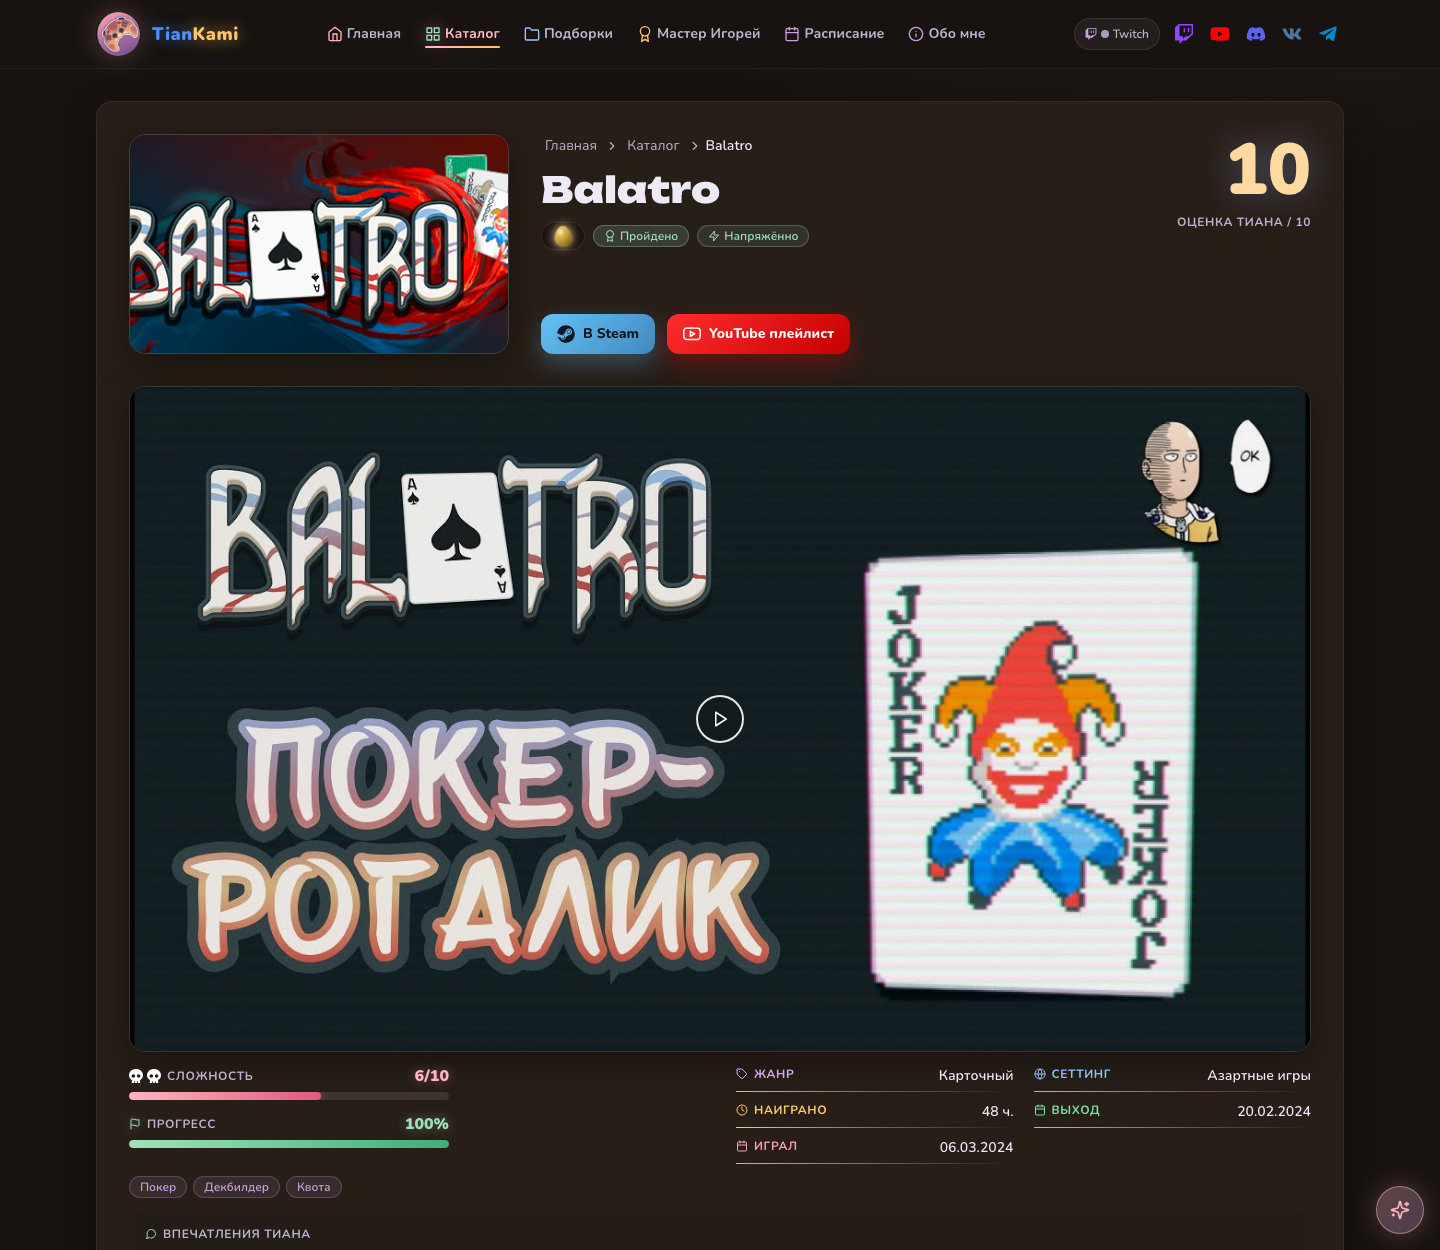
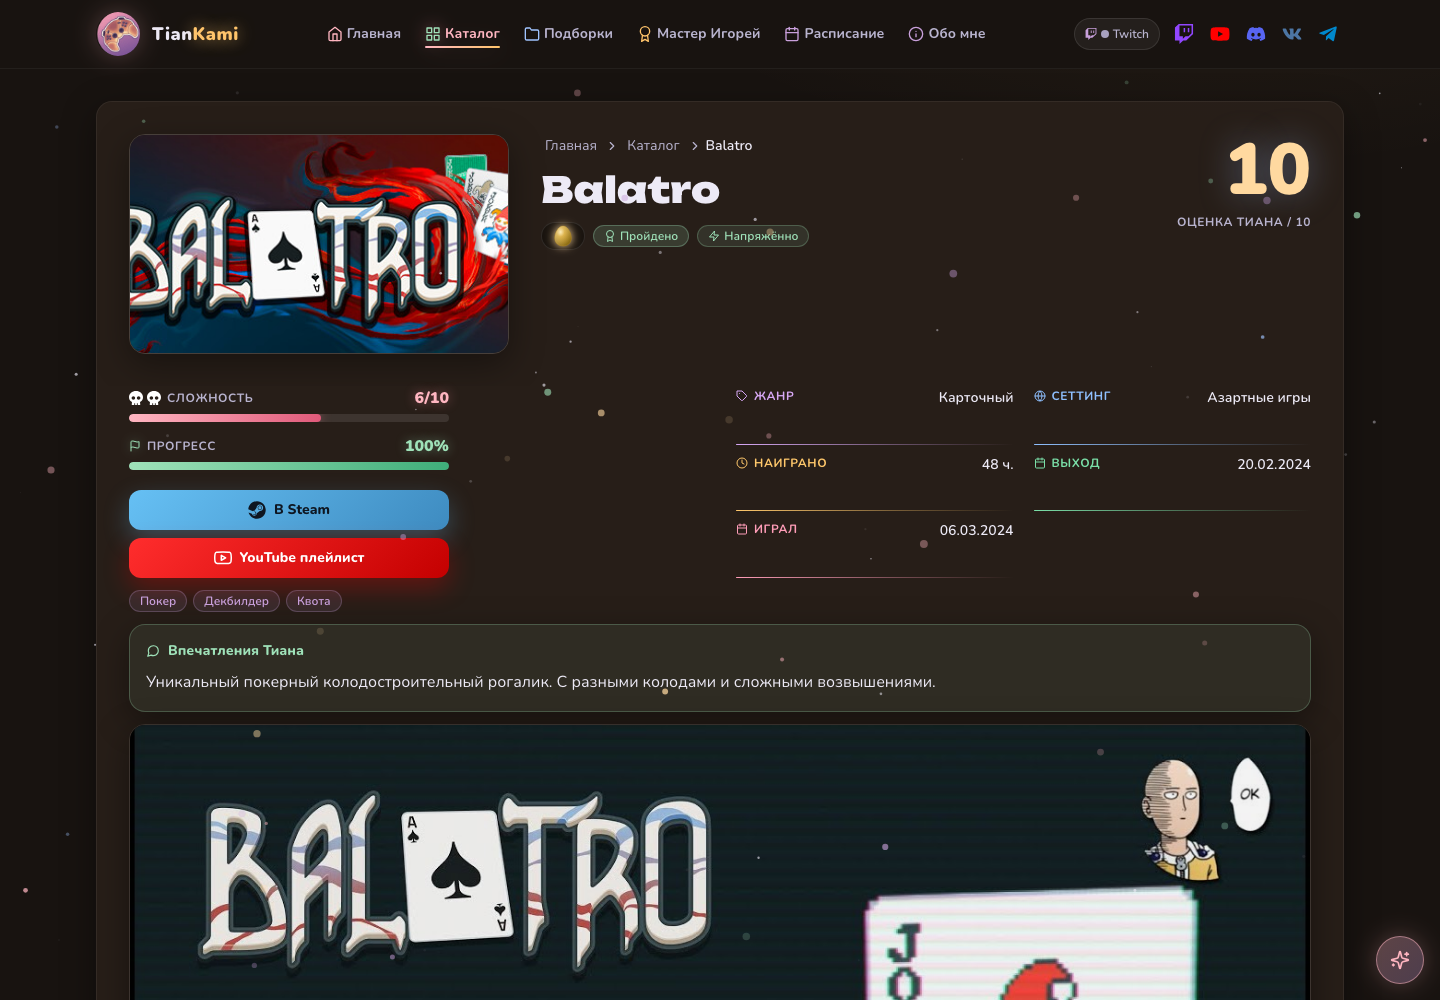
Скриншоты в README под текущий вид: видео внизу, кнопки под шкалами

diff --git a/README.md b/README.md
@@ -10,9 +10,11 @@
 
 ![Главная страница: игра недели, статус стрима, счётчики каталога](docs/screenshots/home.png)
 
-| Страница игры | Каталог с фильтрами | Мобильная версия |
-| :---: | :---: | :---: |
-| ![Страница игры Balatro: оценка, шкалы, постер видео](docs/screenshots/game.png) | ![Каталог: 466 игр, фильтры и поиск](docs/screenshots/catalog.png) | ![Мобильная главная](docs/screenshots/mobile.png) |
+| Страница игры | Каталог с фильтрами |
+| :---: | :---: |
+| ![Страница игры Balatro: оценка, шкалы, ссылки, впечатления](docs/screenshots/game.png) | ![Каталог: 466 игр, фильтры и поиск](docs/screenshots/catalog.png) |
+| **Главная на телефоне** | **Игра на телефоне** |
+| ![Мобильная главная](docs/screenshots/mobile.png) | ![Страница игры на телефоне](docs/screenshots/game-mobile.png) |
 
 ## Что внутри
 
